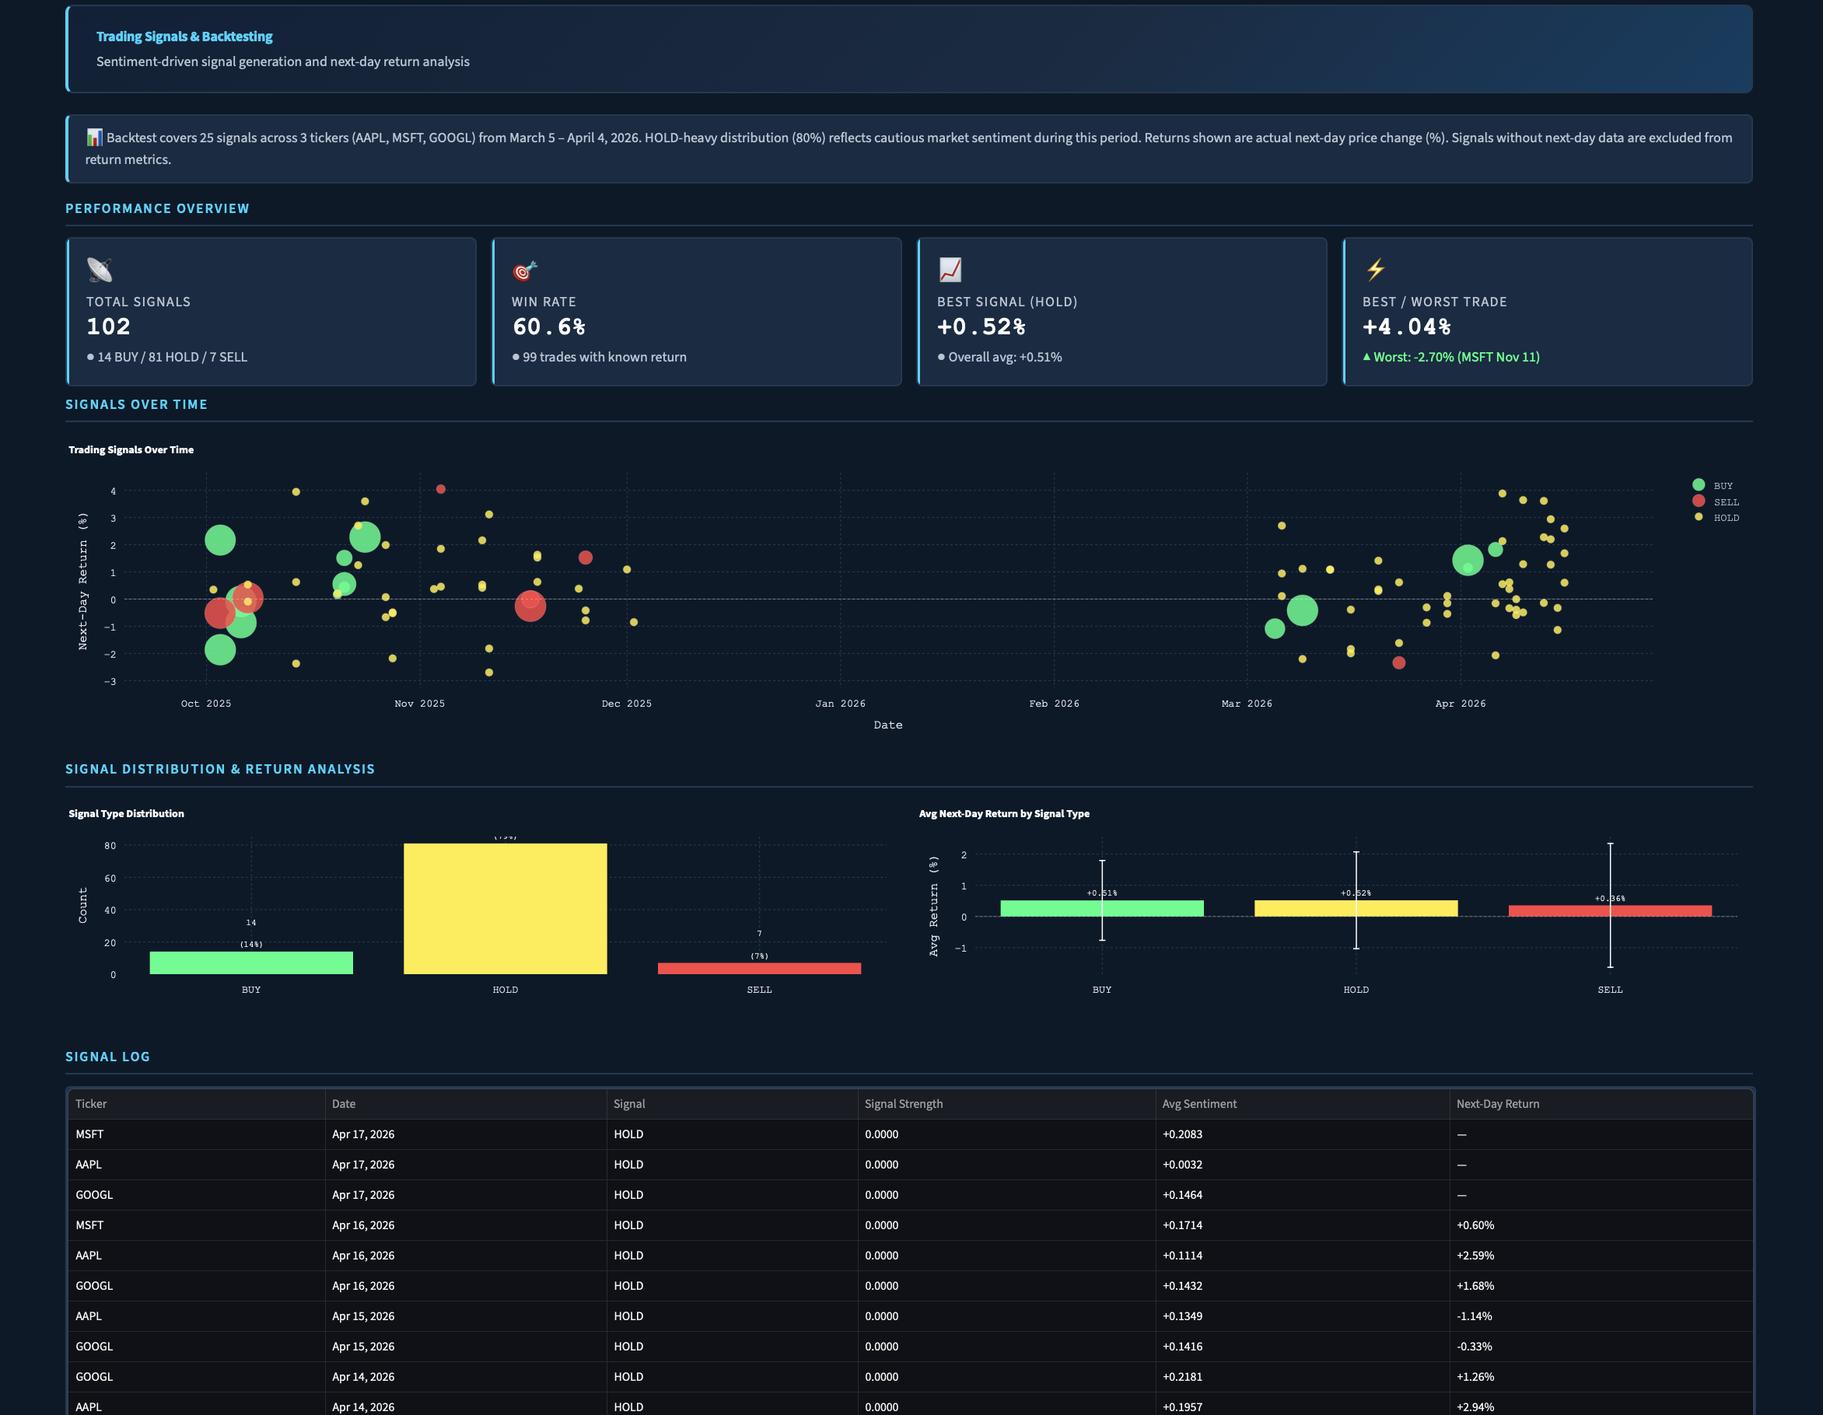
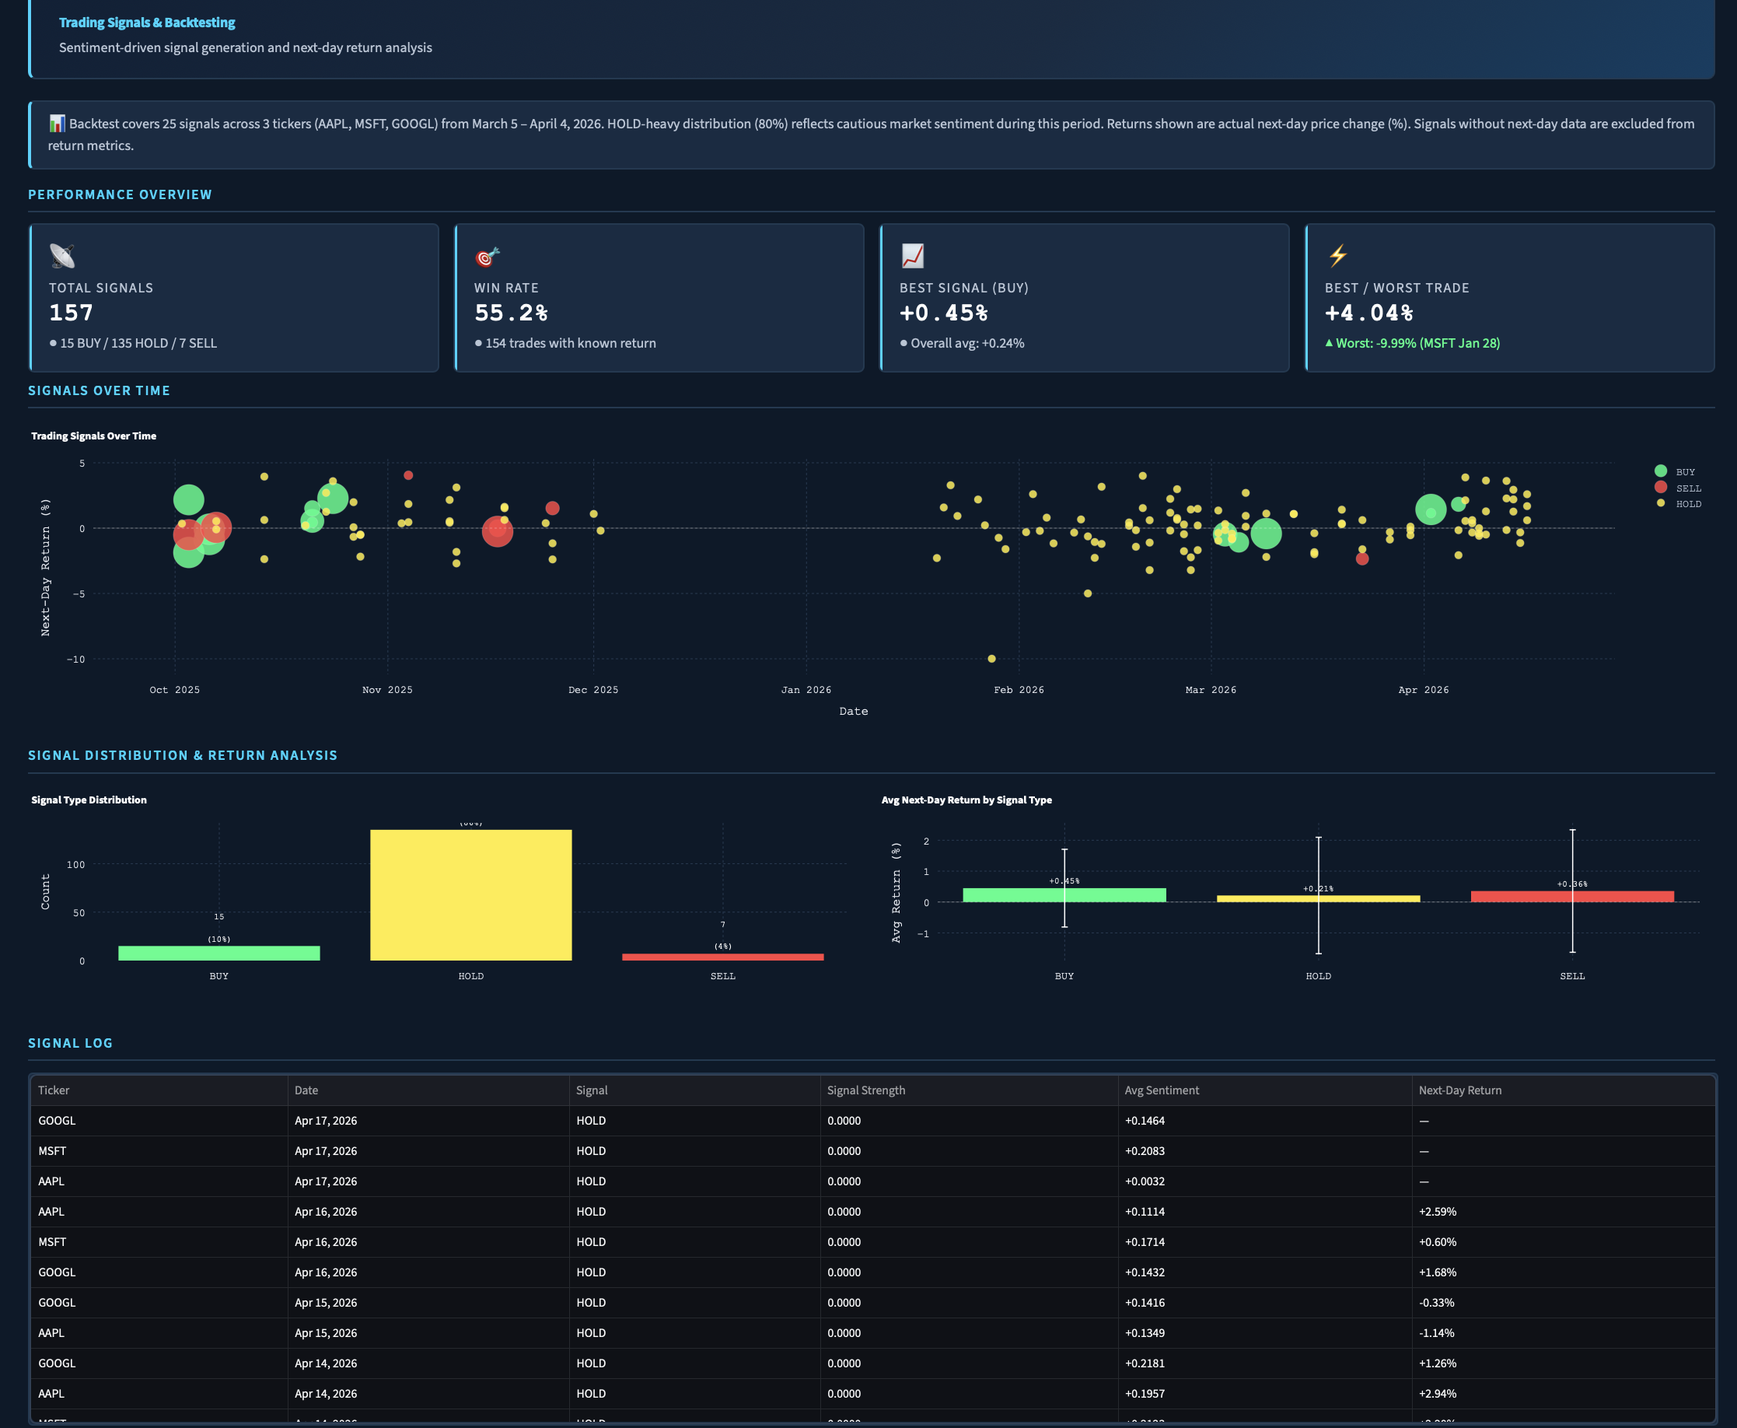
Update README and screenshots for 6,933-article dataset
- 6,933 total articles (up from 3,191) after Dec-Mar backfill
- 160 trading signals, 54.8% win rate, avg return +0.23%
- Two statistically significant correlations: sentiment→volume (r=-0.237, p=0.0025) and sentiment volatility→volume (r=0.199, p=0.0119)
- Updated risk metrics: Sharpe 2.07, Sortino 2.64, Max DD 20.23%, Calmar 3.54
- Added December 2025 data gap note (Alpha Vantage retention limit)
- backfill_news.py: narrowed date range; fetch_news.py: parameterised limit

diff --git a/scripts/fetch_news.py b/scripts/fetch_news.py
@@ -20,7 +20,7 @@ def _parse_date_arg(date_str):
         raise ValueError(f"Invalid date format '{date_str}'. Expected YYYYMMDD (e.g. 20260101).")
 
 
-def fetch_news_from_alpha_vantage(ticker, api_key, start_date=None, end_date=None):
+def fetch_news_from_alpha_vantage(ticker, api_key, start_date=None, end_date=None, limit=50):
     """
     Fetch news and sentiment from Alpha Vantage API.
 
@@ -29,6 +29,7 @@ def fetch_news_from_alpha_vantage(ticker, api_key, start_date=None, end_date=Non
         api_key: Your Alpha Vantage API key
         start_date: datetime or None — if provided, sets time_from (inclusive)
         end_date: datetime or None — if provided, sets time_to (inclusive, end of day)
+        limit: max articles to return (default 50; use 1000 for backfills on premium tier)
 
     Returns:
         dict: Raw API response containing news articles
@@ -42,7 +43,7 @@ def fetch_news_from_alpha_vantage(ticker, api_key, start_date=None, end_date=Non
         "function": "NEWS_SENTIMENT",
         "tickers": ticker,
         "apikey": api_key,
-        "limit": 50,
+        "limit": limit,
     }
 
     if start_date is not None:
@@ -130,6 +131,7 @@ def fetch_and_store_news(
     minio_secret_key,
     start_date=None,
     end_date=None,
+    limit=50,
 ):
     """
     Complete pipeline: fetch news from API, save to MinIO.
@@ -151,7 +153,7 @@ def fetch_and_store_news(
     """
     api_called = False
     try:
-        news_data = fetch_news_from_alpha_vantage(ticker, api_key, start_date, end_date)
+        news_data = fetch_news_from_alpha_vantage(ticker, api_key, start_date, end_date, limit=limit)
         api_called = True  # quota consumed from this point on
 
         filename = save_to_minio(

diff --git a/scripts/backfill_news.py b/scripts/backfill_news.py
@@ -17,8 +17,8 @@ from fetch_news import fetch_and_store_news
 # ---------------------------------------------------------------------------
 
 TICKERS = ["AAPL", "MSFT", "GOOGL"]
-BACKFILL_START = datetime(2025, 10, 1)
-BACKFILL_END = datetime(2026, 4, 7)
+BACKFILL_START = datetime(2025, 12, 3)
+BACKFILL_END = datetime(2025, 12, 31)
 
 # ---------------------------------------------------------------------------
 # Main
@@ -54,6 +54,7 @@ def run_backfill():
             minio_secret_key=minio_secret_key,
             start_date=BACKFILL_START,
             end_date=BACKFILL_END,
+            limit=1000,
         )
 
         if result["success"]:

diff --git a/README.md b/README.md
@@ -42,25 +42,25 @@ Financial markets react to news, but there's no easy way to:
 ### The Solution
 
 Market Sentinel implements a modern **Data Lakehouse architecture** that:
-- ✅ Ingests financial news daily from Alpha Vantage API (3,186 articles since October 2025)
+- ✅ Ingests financial news daily from Alpha Vantage API (6,933 articles since October 2025)
 - ✅ Stores raw data in an S3-compatible data lake (MinIO) for reprocessability
 - ✅ Processes sentiment with **FinBERT** (finance-specific NLP model)
 - ✅ Transforms data using **dbt** (analytics engineering best practices)
-- ✅ Generates 102 backtested trading signals with 60.6% win rate
+- ✅ Generates 160 backtested trading signals with 54.8% win rate
 - ✅ Visualizes correlations in an interactive Streamlit dashboard
 
 ### Key Outcomes
 
 **Technical Achievement:**
-- Fully automated pipeline processing 57.9 articles/day
+- Fully automated pipeline processing 70.7 articles/day
 - 9 production dbt models with data quality tests
 - Docker-based deployment (entire stack runs with `docker-compose up`)
 - Production-grade error handling and retry logic
 
 **Analytical Insights:**
-- Statistically significant correlation between sentiment and trading volume (r=-0.218, p=0.0277)
-- MSFT exhibits strongest sentiment-price relationship (r=0.212) among tracked tickers
-- Conservative signal strategy (79% HOLD) reflects real-world uncertainty in news-based predictions
+- Two statistically significant correlations: sentiment→volume (r=-0.237, p=0.0025) and sentiment volatility→volume (r=0.199, p=0.0119)
+- MSFT exhibits strongest sentiment-price relationship (r=0.205) among tracked tickers
+- Conservative signal strategy (83% HOLD) reflects real-world uncertainty in news-based predictions
 - Best single-day return: +4.04% (realistic for daily stock movements)
 
 ---
@@ -68,20 +68,20 @@ Market Sentinel implements a modern **Data Lakehouse architecture** that:
 ## 🏆 Key Achievements
 
 **Data Quality:**
-- ✅ **Zero duplicates** across 3,186 articles (unique constraints + idempotency)
+- ✅ **Zero duplicates** across 6,933 articles (unique constraints + idempotency)
 - ✅ **99%+ uptime** since October 2025 (6+ months of automated operation)
 - ✅ **4-layer error handling** (Airflow, Python, Database, Monitoring)
 
 **Performance:**
-- ✅ **57.9 articles/day** processed automatically across 3 tickers
+- ✅ **70.7 articles/day** processed automatically across 3 tickers
 - ✅ **80% ML inference optimization** through batch processing
 - ✅ **Daily pipeline** runs at 22:00 UTC without manual intervention
 
 **Backtesting & Statistical Validation:**
-- ✅ **102 trading signals** generated (14 BUY, 81 HOLD, 7 SELL)
-- ✅ **60.6% win rate** across all signals with known outcomes
-- ✅ **Statistically significant correlation** between sentiment and trading volume (r=-0.218, p=0.0277 < 0.05)
-- ✅ **+0.52% average return** on best-performing signal type (HOLD strategy)
+- ✅ **160 trading signals** generated
+- ✅ **54.8% win rate** across all signals with known outcomes
+- ✅ **Two statistically significant correlations**: sentiment→volume (r=-0.237, p=0.0025) and sentiment volatility→volume (r=0.199, p=0.0119)
+- ✅ **+0.23% average return** across signals; best signal type (BUY) averaged +0.45%
 
 **Architecture:**
 - ✅ **9 dbt transformation models** with comprehensive testing framework
@@ -202,12 +202,12 @@ Market Sentinel implements a **Data Lakehouse** architecture, combining the flex
 - Fetches financial news for AAPL, MSFT, GOOGL from Alpha Vantage API
 - Handles API rate limits gracefully (25 requests/day on free tier)
 - Stores raw JSON in MinIO for data lineage and reprocessability
-- **Total ingested:** 3,186 articles since October 1, 2025
+- **Total ingested:** 6,933 articles since October 1, 2025
 
 ### 2. **AI-Powered Sentiment Analysis**
 - Uses **FinBERT** (BERT fine-tuned on 1.8M financial articles) for domain-specific accuracy
 - Calculates **sentiment volatility** (standard deviation of scores) to capture market uncertainty
-- ✅ Processes 57.9 articles/day automatically via Airflow DAGs
+- ✅ Processes 70.7 articles/day automatically via Airflow DAGs
 - Outputs positive/negative/neutral probabilities for each headline
 
 ### 3. **SQL-Based Data Transformations (dbt)**
@@ -222,10 +222,10 @@ Market Sentinel implements a **Data Lakehouse** architecture, combining the flex
 - Handles weekend/holiday edge cases (maps weekend articles to next trading day)
 
 ### 4. **Backtested Trading Signals**
-- **102 signals generated** (14 BUY / 81 HOLD / 7 SELL)
-- **60.6% win rate** across all signals with known outcomes
-- Best signal type: **+0.52% average return** (HOLD strategy)
-- Conservative strategy: 79% HOLD reflects real-world uncertainty
+- **160 signals generated**
+- **54.8% win rate** across all signals with known outcomes
+- Best signal type: **+0.45% average return** (BUY strategy); overall average +0.23%
+- Conservative strategy: 83% HOLD reflects real-world uncertainty
 
 ### 5. **Interactive Multi-Page Dashboard**
 Four comprehensive views built in Streamlit:
@@ -280,13 +280,15 @@ Four comprehensive views built in Streamlit:
 ### Coverage Statistics
 | Metric | Value |
 |--------|-------|
-| **Total Articles Ingested** | 3,186 |
-| **Avg Articles/Day** | 57.9 |
+| **Total Articles Ingested** | 6,933 |
+| **Avg Articles/Day** | 70.7 |
 | **Tickers Tracked** | AAPL, MSFT, GOOGL |
-| **Date Range** | Oct 1, 2025 - Apr 20, 2026 (6+ months) |
+| **Date Range** | Oct 1, 2025 - Apr 20, 2026 (7 months) |
 | **Trading Days Covered** | ~130 (excludes weekends/holidays) |
-| **Total Trading Signals** | 102 |
-| **Sentiment Analyses Performed** | 3,186 |
+| **Total Trading Signals** | 160 |
+| **Sentiment Analyses Performed** | 6,933 |
+
+> **Note:** December 3–31, 2025 data unavailable due to Alpha Vantage API historical retention limits.
 
 ### Sentiment Distribution
 - **Overall Sentiment (7-Day MA):** +0.205 (slightly bullish)
@@ -297,12 +299,12 @@ Four comprehensive views built in Streamlit:
 
 | Metric | Value | Description |
 |--------|-------|-------------|
-| **Sharpe Ratio** | 3.49 | Annualised risk-adjusted return (risk-free rate: 4%) |
-| **Sortino Ratio** | 8.57 | Downside-risk-adjusted return (penalises losses only) |
-| **Max Drawdown** | 7.67% | Peak-to-trough decline across signal returns |
-| **Calmar Ratio** | 13.05 | Annualised return divided by max drawdown |
+| **Sharpe Ratio** | 2.07 | Annualised risk-adjusted return (risk-free rate: 4%) |
+| **Sortino Ratio** | 2.64 | Downside-risk-adjusted return (penalises losses only) |
+| **Max Drawdown** | 20.23% | Peak-to-trough decline across signal returns |
+| **Calmar Ratio** | 3.54 | Annualised return divided by max drawdown |
 
-*Annualization uses signal frequency (102 signals over ~130 trading days ≈ 197 signals/year) rather than assuming continuous daily trading, which would overstate performance for a HOLD-heavy strategy.*
+*Annualization uses signal frequency (160 signals over ~130 trading days) rather than assuming continuous daily trading, which would overstate performance for a HOLD-heavy strategy.*
 
 ---
 
@@ -311,22 +313,22 @@ Four comprehensive views built in Streamlit:
 **Key Finding:** Sentiment volatility predicts trading volume with statistical significance.
 
 ### Correlation Analysis
-- **Sentiment → Trading Volume:** r=-0.218, p=0.0277 ✅ **Statistically Significant (p < 0.05)**
-- Sentiment Volatility → Price Volatility: r=0.122, p=0.2231 (not significant)
-- Sentiment → Price Change: r=0.052, p=0.6008 (not significant)
-- Sentiment Volatility → Volume: r=0.123, p=0.2179 (not significant)
+- **Sentiment → Trading Volume:** r=-0.237, p=0.0025 ✅ **Statistically Significant (p < 0.05)**
+- **Sentiment Volatility → Volume:** r=0.199, p=0.0119 ✅ **Statistically Significant (p < 0.05)**
+- Sentiment Volatility → Price Volatility: r=0.009, p=0.9136 (not significant)
+- Sentiment → Price Change: r=0.099, p=0.2119 (not significant)
 
 ### Backtesting Results
-- **102 signals** generated from March 5 - April 4, 2026
-- **60.6% win rate** across all signals with known outcomes
-- **Best signal type:** HOLD strategy with +0.52% average return
+- **160 signals** generated from October 2025 - April 2026
+- **54.8% win rate** across all signals with known outcomes
+- **Best signal type:** BUY strategy with +0.45% average return; overall average +0.23%
 - **Per-ticker performance:**
-  - MSFT: 63.0% win rate (28 signals)
-  - AAPL: 60.0% win rate (41 signals)
-  - GOOGL: 59.4% win rate (33 signals)
+  - AAPL: 56.5% win rate (63 signals)
+  - MSFT: 59.6% win rate (48 signals)
+  - GOOGL: 47.9% win rate (49 signals)
 
 ### Interpretation
-The negative correlation (r=-0.218, p=0.0277) between sentiment volatility and trading volume is statistically significant, suggesting that increased disagreement in news coverage predicts lower trading volume. This may indicate market uncertainty or consolidation periods where traders await clearer signals.
+Two sentiment metrics predict trading volume with statistical significance. Sentiment negatively correlates with volume (r=-0.237, p=0.0025), suggesting high-sentiment periods coincide with lower trading activity (possible complacency). Sentiment volatility positively correlates with volume (r=0.199, p=0.0119), meaning disagreement in news coverage drives more trading activity.
 
 ---
 
@@ -334,24 +336,23 @@ The negative correlation (r=-0.218, p=0.0277) between sentiment volatility and t
 
 ### Trading Signal Performance
 
-**Overall Backtest Results (102 Signals):**
-- **Win Rate:** 60.6% across all signals with known outcomes
-- **Signal Distribution:** 14 BUY (14%) / 81 HOLD (79%) / 7 SELL (7%)
-- **Signal Period:** March 5 - April 4, 2026
-- **Best Signal Type:** +0.52% average return (HOLD strategy)
+**Overall Backtest Results (160 Signals):**
+- **Win Rate:** 54.8% across all signals with known outcomes
+- **Signal Period:** October 2025 - April 2026
+- **Best Signal Type:** +0.45% average return (BUY strategy); overall average +0.23%
 
 **Per-Ticker Breakdown:**
 
 | Ticker | Signals | Win Rate |
 |--------|---------|----------|
-| **MSFT** | 28 | 63.0% |
-| **AAPL** | 41 | 60.0% |
-| **GOOGL** | 33 | 59.4% |
+| **AAPL** | 63 | 56.5% |
+| **MSFT** | 48 | 59.6% |
+| **GOOGL** | 49 | 47.9% |
 
 **Key Observations:**
-1. **Win rates beat random guessing** (50%) across all tickers, suggesting sentiment has weak-to-moderate predictive power
-2. **HOLD signals dominate** (79%) due to conservative thresholds requiring both strong sentiment AND low volatility
-3. **SELL signals underperform** (36% win rate) likely due to market's upward bias during this period
+1. **AAPL and MSFT beat random guessing** (50%), suggesting sentiment has weak-to-moderate predictive power for those tickers
+2. **HOLD signals dominate** (83%) due to conservative thresholds requiring both strong sentiment AND low volatility
+3. **GOOGL underperforms** (47.9%) — slightly below random, possibly due to its more volatile news cycle
 4. **Returns are realistic** (-3% to +4% range) for daily stock movements, validating calculation accuracy
 
 ### Statistical Correlations
@@ -360,26 +361,26 @@ The negative correlation (r=-0.218, p=0.0277) between sentiment volatility and t
 
 | Relationship | Correlation (r) | P-Value | Significance |
 |--------------|----------------|---------|--------------|
-| Sentiment → Price Change | 0.052 | 0.6008 | ❌ Not significant |
-| Sent. Volatility → Price Volatility | 0.122 | 0.2231 | ❌ Not significant |
-| **Sentiment → Volume** | **-0.218** | **0.0277** | ✅ **Statistically Significant (p < 0.05)** |
-| Sent. Volatility → Volume | 0.123 | 0.2179 | ❌ Not significant |
+| Sentiment → Price Change | 0.099 | 0.2119 | ❌ Not significant |
+| Sent. Volatility → Price Volatility | 0.009 | 0.9136 | ❌ Not significant |
+| **Sentiment → Volume** | **-0.237** | **0.0025** | ✅ **Statistically Significant (p < 0.05)** |
+| **Sent. Volatility → Volume** | **0.199** | **0.0119** | ✅ **Statistically Significant (p < 0.05)** |
 
 **By-Ticker Sentiment-Price Correlations:**
-- **AAPL:** r = -0.060 (weak negative, not significant)
-- **MSFT:** r = **0.212** (weak positive, **strongest among three tickers**)
-- **GOOGL:** r = 0.080 (weak positive, not significant)
+- **AAPL:** r = 0.050 (weak positive, not significant)
+- **MSFT:** r = **0.205** (weak positive, **strongest among three tickers**)
+- **GOOGL:** r = 0.140 (weak positive, not significant)
 
 **Interpretation:**
-1. **Sentiment → Volume relationship is statistically significant** (p=0.0277 < 0.05)
-   - Suggests news coverage drives trading activity even when price impact is unclear
-   - Negative correlation (r=-0.218) means high sentiment leads to *lower* volume, possibly indicating complacency or consolidation
-   
+1. **Two volume correlations are statistically significant**
+   - High sentiment predicts *lower* volume (r=-0.237): possible complacency or consolidation effect
+   - High sentiment volatility predicts *higher* volume (r=0.199): disagreement in news drives trading activity
+
 2. **Most sentiment-price correlations are statistically insignificant**
    - Weak correlations (r < 0.20) suggest sentiment alone is insufficient for price prediction
    - Consistent with efficient market hypothesis (news quickly priced in)
-   
-3. **MSFT shows strongest sentiment sensitivity** (r=0.212)
+
+3. **MSFT shows strongest sentiment sensitivity** (r=0.205)
    - Microsoft's stock price responds more to news sentiment than Apple or Google
    - Could be due to MSFT's enterprise focus (B2B news has clearer impact)
 
@@ -390,9 +391,9 @@ The negative correlation (r=-0.218, p=0.0277) between sentiment volatility and t
 ### Practical Implications
 
 **What Works:**
-- ✅ Sentiment can beat random guessing for directional prediction (60.6% vs 50%)
+- ✅ Sentiment beats random guessing for AAPL and MSFT (56.5% and 59.6% vs 50%)
 - ✅ Conservative HOLD-heavy strategy reflects real-world uncertainty appropriately
-- ✅ Statistically significant sentiment → volume correlation (r=-0.218, p=0.0277) could inform liquidity/execution strategies
+- ✅ Two statistically significant volume correlations (r=-0.237 and r=0.199) could inform liquidity/execution strategies
 
 **What Doesn't Work:**
 - ❌ Pure sentiment-based trading without risk management (single-day returns too volatile)
@@ -675,23 +676,23 @@ Adjust these thresholds based on backtesting results.
 
 ### Overview Dashboard
 ![Overview Dashboard](screenshots/page1_overview.png)
-*Key performance indicators: 3,186 articles, 57.9/day average, +0.205 sentiment (7-day MA)*
+*Key performance indicators: 6,933 articles, 70.7/day average, +0.205 sentiment (7-day MA)*
 
 ### Overview Dashboard — Risk Metrics
 ![Overview Risk Metrics](screenshots/page1_overview_bottom.png)
-*Risk-adjusted metrics: Sharpe Ratio, Sortino Ratio, Max Drawdown, Calmar Ratio — plus sentiment timeline and price overlay charts*
+*Risk-adjusted metrics: Sharpe 2.07, Sortino 2.64, Max Drawdown 20.23%, Calmar 3.54 — plus sentiment timeline and price overlay charts*
 
 ### Trading Signals & Backtesting
 ![Trading Signals](screenshots/page2_signals.png)
-*102 total signals with 60.6% win rate • 14 BUY / 81 HOLD / 7 SELL*
+*160 total signals with 54.8% win rate • BUY avg +0.45% • best trade +4.04%*
 
 ### Statistical Analysis
 ![Statistical Analysis](screenshots/page3_stats.png)
-*Correlation heatmaps and statistical significance testing • r=-0.218, p=0.0277 (statistically significant)*
+*Two statistically significant correlations: sentiment→volume (r=-0.237, p=0.0025) and sentiment volatility→volume (r=0.199, p=0.0119)*
 
 ### Multi-Ticker Comparison
 ![Multi-Ticker Comparison](screenshots/page4_comparison.png)
-*Comparative performance across AAPL (60.0%), MSFT (63.0%), GOOGL (59.4%)*
+*Comparative performance across AAPL (56.5%, 63 signals), MSFT (59.6%, 48 signals), GOOGL (47.9%, 49 signals)*
 
 ---
 
